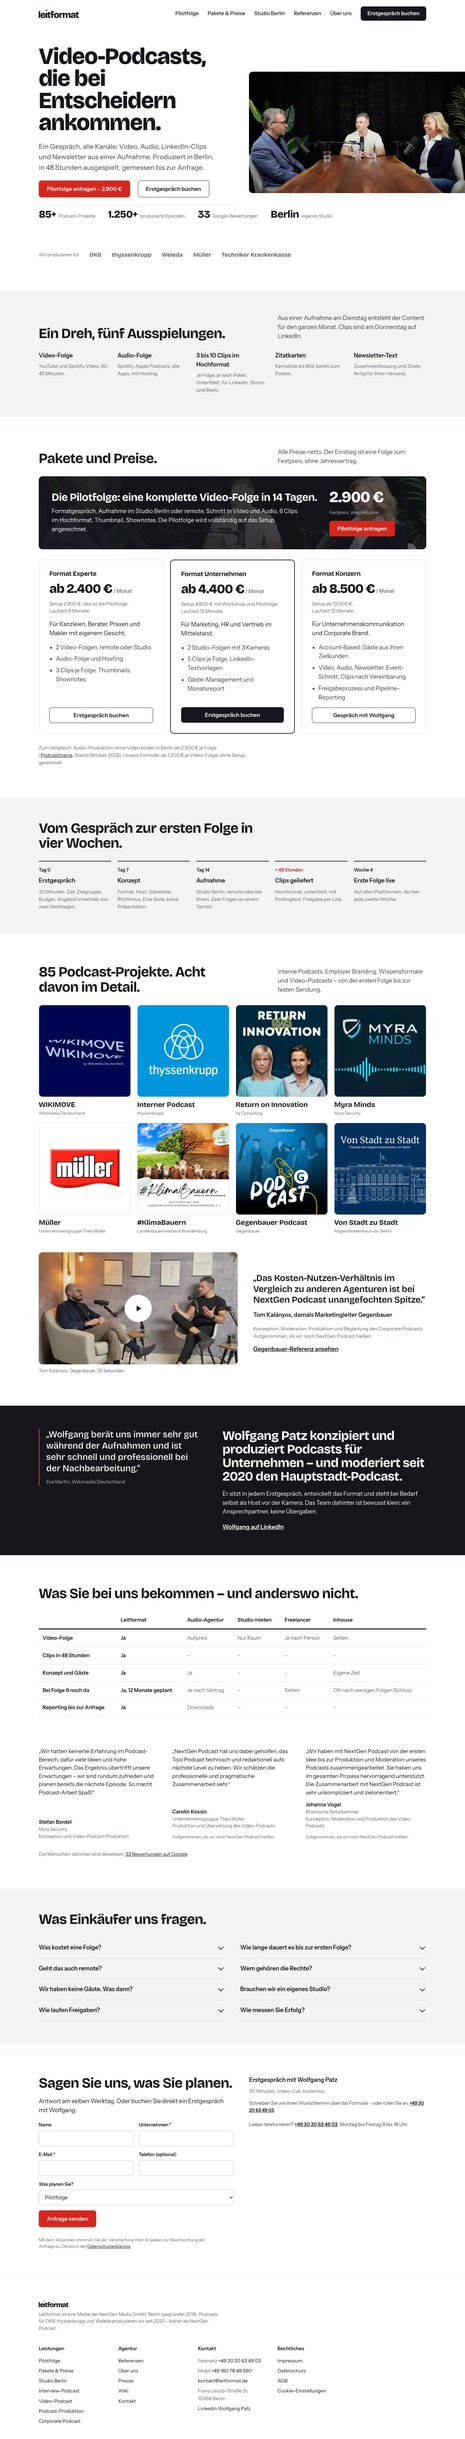
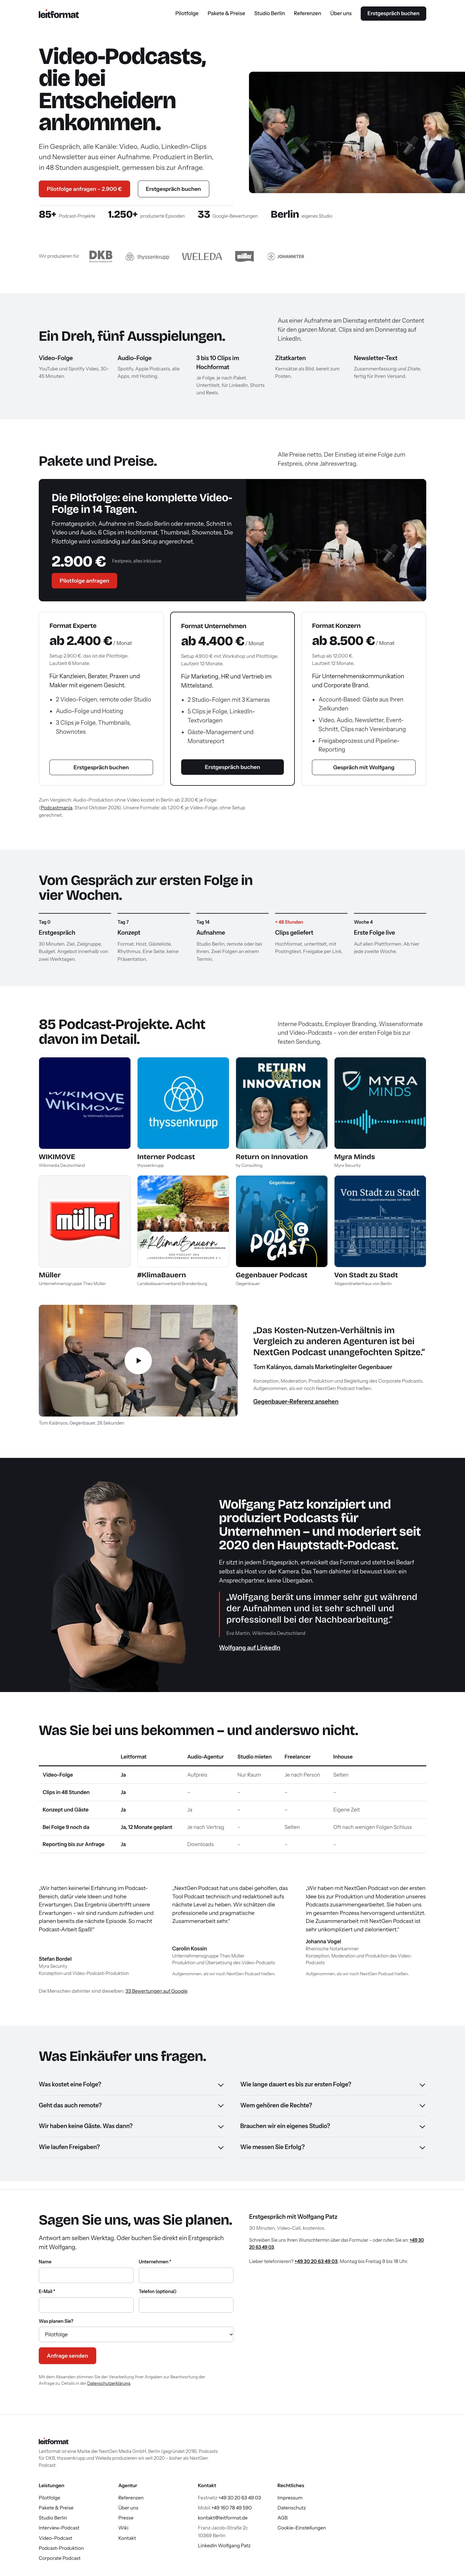
AUFTRAG-05 Medien: Kundenlogos, Team, Wolfgang-Porträt, Cover
Logos freigestellt und einfarbig, Team-Rundporträts, Wolfgang im dunklen
Block, Müller-Cover grau, Hero-Bild mit 800w und Preload, CSS wieder
inline (LCP 1,7 s).

diff --git a/theme/leitformat/assets/css/patterns.css b/theme/leitformat/assets/css/patterns.css
@@ -737,3 +737,23 @@ button.lf-video__play:hover, .lf-video-box--link:hover .lf-video__play { transfo
 /* Häkchen: kein Rot (Rot nur als REC-Signal) */
 .lf-checks li::before { border-color: var(--lf-ink); }
 .lf-pilot .lf-checks li::before, .lf-section--ink .lf-checks li::before { border-color: var(--lf-white); }
+
+/* ---------- AUFTRAG-05 Medien: Logos, Porträt, Team ---------- */
+
+.lf-logos__bilder { display: flex; align-items: center; gap: 40px; margin: 0; padding: 0; list-style: none; }
+.lf-logos__bilder li { flex: none; max-width: none; line-height: 0; }
+.lf-logos__bilder img { display: block; width: auto; opacity: .62; }
+.lf-logos--bild .lf-container { align-items: center; }
+
+.lf-wolfgang--bild { padding-bottom: 0; }
+.lf-wolfgang--bild .lf-container { align-items: end; }
+@media (min-width: 900px) { .lf-wolfgang--bild .lf-container { grid-template-columns: minmax(0, 1fr) minmax(0, 1.3fr); } }
+.lf-wolfgang--bild .lf-wolfgang__text { align-self: center; padding-bottom: var(--wp--preset--spacing--section); }
+.lf-wolfgang__bild { max-width: 420px; margin-inline: auto; }
+.lf-wolfgang__foto { margin: 0; }
+.lf-wolfgang__foto img { display: block; width: 100%; height: auto; background: radial-gradient(closest-side, #3A3F4A 0%, rgba(58, 63, 74, 0) 100%); }
+
+.lf-person__foto { margin: 0 0 8px; max-width: 160px; }
+.lf-person__foto img { display: block; width: 100%; height: auto; aspect-ratio: 1 / 1; object-fit: cover; border-radius: 50%; background: var(--lf-ink); }
+.lf-person { border-top: 0; padding-top: 0; }
+@media (max-width: 899px) { .lf-wolfgang__bild { max-width: 280px; } }

diff --git a/theme/leitformat/inc/content.php b/theme/leitformat/inc/content.php
@@ -331,8 +331,7 @@ function lf_image( string $file, string $alt, string $class = '', bool $eager = 
 	$json = $class ? ',"className":"' . $class . '"' : '';
 	// Studiofotos liegen in zwei Breiten (…-600.webp, …-1200.webp).
 	if ( str_ends_with( $file, '-1200.webp' ) ) {
-		$small  = str_replace( '-1200.webp', '-600.webp', $file );
-		$extra  = ' srcset="' . lf_img( $small ) . ' 600w, ' . lf_img( $file ) . ' 1200w" sizes="(min-width: 1200px) 600px, (min-width: 900px) 50vw, 100vw" width="1200" height="672"';
+		$extra = ' srcset="' . lf_srcset( $file ) . '" sizes="' . LF_SIZES . '" width="1200" height="672"';
 	} else {
 		$extra = '';
 	}
@@ -467,4 +466,57 @@ function lf_pilotkarte( string $titel, string $text, string $hinweis, int $h = 3
 		) . "\n"
 		. lf_group( 'lf-pilot__foto', lf_image( 'studio/studio-totale-1200.webp', 'Aufnahme einer Pilotfolge im Studio Berlin: drei Personen am Tisch, drei Kameras', 'lf-pilot__bild' ) )
 	);
+}
+
+/**
+ * Kundenlogos als Grafik (von der alten Seite, freigestellt, einfarbig; Grau per CSS).
+ * Fehlen bewusst: Techniker Krankenkasse (kein Logo vorhanden – „TK.png“ der alten Seite ist thyssenkrupp),
+ * Wikimedia (vorhandenes Logo ist die Wikimedia Foundation, Kunde ist Wikimedia Deutschland).
+ * Höhe in px je Logo, damit die optische Größe gleich wirkt.
+ */
+function lf_logo_daten(): array {
+	return array(
+		'dkb'                      => array( 'DKB', 36 ),
+		'thyssenkrupp'             => array( 'thyssenkrupp', 26 ),
+		'weleda'                   => array( 'Weleda', 22 ),
+		'mueller'                  => array( 'Müller', 34 ),
+		'johanniter'               => array( 'Johanniter', 26 ),
+		'gegenbauer'               => array( 'Gegenbauer', 18 ),
+		'konrad-adenauer-stiftung' => array( 'Konrad-Adenauer-Stiftung', 28 ),
+		'globus'                   => array( 'Globus', 30 ),
+		'nh-hotels'                => array( 'NH Hotels', 32 ),
+		'hy'                       => array( 'hy – The Axel Springer Consulting Group', 26 ),
+		'myra'                     => array( 'Myra Security', 20 ),
+		'rheinische-notarkammer'   => array( 'Rheinische Notarkammer', 34 ),
+		'abgeordnetenhaus-berlin'  => array( 'Abgeordnetenhaus Berlin', 24 ),
+	);
+}
+
+/** Logostreifen: Startseite fünf Logos, mit $alle sämtliche. */
+function lf_logo_streifen( bool $alle = false ): string {
+	$daten = lf_logo_daten();
+	$wahl  = $alle ? array_keys( $daten ) : array( 'dkb', 'thyssenkrupp', 'weleda', 'mueller', 'johanniter' );
+	$li    = '';
+	foreach ( $wahl as $k ) {
+		[ $name, $h ] = $daten[ $k ];
+		$li .= '<li><img src="' . lf_img( "logos/{$k}.webp" ) . '" alt="' . esc_attr( $name ) . '" height="' . $h . '" loading="lazy" decoding="async"></li>';
+	}
+	return lf_section( 'lf-logos lf-logos--bild',
+		lf_p( 'Wir produzieren für', 'lf-logos__label' ) . "\n"
+		. "<!-- wp:html -->\n<ul class=\"lf-logos__bilder\">" . $li . "</ul>\n<!-- /wp:html -->"
+	);
+}
+
+const LF_SIZES = '(min-width: 1200px) 600px, (min-width: 900px) 50vw, calc(100vw - 40px)';
+
+/** srcset aus den vorhandenen Breiten (…-600/-800/-1200.webp). */
+function lf_srcset( string $file ): string {
+	$teile = array();
+	foreach ( array( 600, 800, 1200 ) as $w ) {
+		$f = str_replace( '-1200.webp', "-{$w}.webp", $file );
+		if ( is_readable( get_theme_file_path( "assets/img/{$f}" ) ) ) {
+			$teile[] = lf_img( $f ) . " {$w}w";
+		}
+	}
+	return implode( ', ', $teile );
 }

diff --git a/theme/leitformat/patterns/ueber-uns.php b/theme/leitformat/patterns/ueber-uns.php
@@ -19,15 +19,15 @@ foreach ( $lf_zeit as $z ) {
 }
 
 $lf_team = array(
-	array( 'Wolfgang Patz', 'Gründer und Geschäftsführer. Strategie, Kundenkommunikation, Formate.' ),
-	array( 'Erik Freutel', 'Mitgründer. Formatentwicklung, Konzepte, Google Ads.' ),
-	array( 'Lenny', 'Aufnahme, Produktion, Qualitätssicherung.' ),
-	array( 'Andreas', 'Schnitt, Sounddesign, Postproduktion.' ),
-	array( 'Clemens', 'Veröffentlichung, Distribution, Plattformen.' ),
+	array( 'Wolfgang Patz', 'Gründer und Geschäftsführer. Strategie, Kundenkommunikation, Formate.', 'wolfgang-patz' ),
+	array( 'Erik Freutel', 'Mitgründer. Formatentwicklung, Konzepte, Google Ads.', 'erik-freutel' ),
+	array( 'Lenny', 'Aufnahme, Produktion, Qualitätssicherung.', 'lenny' ),
+	array( 'Andreas', 'Schnitt, Sounddesign, Postproduktion.', 'andreas' ),
+	array( 'Clemens', 'Veröffentlichung, Distribution, Plattformen.', 'clemens' ),
 );
 $lf_karten = '';
 foreach ( $lf_team as $t ) {
-	$lf_karten .= lf_group( 'lf-person', lf_p( '<strong>' . lf_e( $t[0] ) . '</strong>' ) . "\n" . lf_p( lf_e( $t[1] ), 'lf-muted' ) ) . "\n";
+	$lf_karten .= lf_group( 'lf-person', lf_image( 'team/' . $t[2] . '.webp', 'Porträt ' . $t[0], 'lf-person__foto' ) . "\n" . lf_p( '<strong>' . lf_e( $t[0] ) . '</strong>' ) . "\n" . lf_p( lf_e( $t[1] ), 'lf-muted' ) ) . "\n";
 }
 
 $lf_presse = lf_list( array(
@@ -44,8 +44,9 @@ echo lf_section( 'lf-intro lf-ueber',
 . "\n\n" . lf_section( 'lf-section--white lf-ablauf lf-zeit',
 	lf_h( 2, 'Von einem Blog zur Video-Podcast-Agentur.' ) . "\n" . lf_group( 'lf-steps', $lf_steps )
 )
-. "\n\n" . lf_section( 'lf-section--ink lf-wolfgang',
-	lf_group( 'lf-wolfgang__text',
+. "\n\n" . lf_section( 'lf-section--ink lf-wolfgang lf-wolfgang--bild',
+	lf_group( 'lf-wolfgang__bild', lf_image( 'team/wolfgang-patz-freigestellt.webp', 'Wolfgang Patz, Gründer von Leitformat', 'lf-wolfgang__foto' ) ) . "\n"
+	. lf_group( 'lf-wolfgang__text',
 		lf_p( 'Wolfgang Patz, Gründer und Geschäftsführer', 'lf-rolle' ) . "\n"
 		. lf_h( 2, '„Ein Podcast ist die authentischste Content-Quelle eines Unternehmens.“' ) . "\n"
 		. lf_p( 'Gelernter Fleischer, danach Jahre in leitender Verantwortung. 2017 der Neustart als Praktikant in einer Berliner Werbeagentur, um zu verstehen, wie Konzerne kommunizieren, dann ein Jahr in einer PR-Agentur. 2018 gründete er mit Erik Freutel die NextGen Media GmbH. Seit 2020 moderiert er den Hauptstadt-Podcast – Gespräche mit Politikern, Spitzensportlern, Schauspielern und CEOs.' ) . "\n"

diff --git a/theme/leitformat/patterns/wolfgang.php b/theme/leitformat/patterns/wolfgang.php
@@ -3,18 +3,17 @@
  * Title: Wolfgang Patz
  * Slug: lf/wolfgang
  * Categories: leitformat
- * Description: Zitat links, Text rechts. Porträt kommt mit AUFTRAG-05 (dann links, Zitat darunter).
+ * Description: Porträt links randlos, Text rechts, Wikimedia-Zitat darunter (DESIGN-01).
  */
 
-echo lf_section( 'lf-section--ink lf-wolfgang',
-	lf_group( 'lf-wolfgang__zitat',
-		'<!-- wp:quote {"className":"lf-sidequote"} -->' . "\n" . '<blockquote class="wp-block-quote lf-sidequote">'
-		. lf_p( '„Wolfgang berät uns immer sehr gut während der Aufnahmen und ist sehr schnell und professionell bei der Nachbearbeitung.“' )
-		. '<cite>Eva Martin, Wikimedia Deutschland</cite></blockquote>' . "\n" . '<!-- /wp:quote -->'
-	) . "\n"
+echo lf_section( 'lf-section--ink lf-wolfgang lf-wolfgang--bild',
+	lf_group( 'lf-wolfgang__bild', lf_image( 'team/wolfgang-patz-freigestellt.webp', 'Wolfgang Patz, Gründer von Leitformat, mit verschränkten Armen', 'lf-wolfgang__foto' ) ) . "\n"
 	. lf_group( 'lf-wolfgang__text',
 		lf_h( 2, 'Wolfgang Patz konzipiert und produziert Podcasts für Unternehmen – und moderiert seit 2020 den Hauptstadt-Podcast.' ) . "\n"
 		. lf_p( 'Er sitzt in jedem Erstgespräch, entwickelt das Format und steht bei Bedarf selbst als Host vor der Kamera. Das Team dahinter ist bewusst klein: ein Ansprechpartner, keine Übergaben.' ) . "\n"
+		. '<!-- wp:quote {"className":"lf-sidequote"} -->' . "\n" . '<blockquote class="wp-block-quote lf-sidequote">'
+		. lf_p( '„Wolfgang berät uns immer sehr gut während der Aufnahmen und ist sehr schnell und professionell bei der Nachbearbeitung.“' )
+		. '<cite>Eva Martin, Wikimedia Deutschland</cite></blockquote>' . "\n" . '<!-- /wp:quote -->' . "\n"
 		. lf_p( '<a href="https://www.linkedin.com/in/wolfgang-patz/" rel="noopener">Wolfgang auf LinkedIn</a>', 'lf-link' )
 	),
 	'wolfgang'

diff --git a/theme/leitformat/functions.php b/theme/leitformat/functions.php
@@ -83,7 +83,14 @@ add_action( 'wp_enqueue_scripts', function () {
 
 // Block-CSS nur für Blöcke, die auf der Seite vorkommen.
 add_filter( 'should_load_separate_core_block_assets', '__return_true' );
-add_filter( 'styles_inline_size_limit', fn() => 60000 );
+add_filter( 'styles_inline_size_limit', fn() => 120000 ); // theme.css + patterns.css inline: kein render-blockierender Request
+
+// Hero-Bild (Studio-Totale) auf Seiten, die es über dem Falz zeigen, vorladen.
+add_action( 'wp_head', function () {
+	if ( is_front_page() || is_page( array( 'pilotfolge', 'podcast-studio-berlin', 'podcast-produktion' ) ) ) {
+		printf( '<link rel="preload" as="image" href="%s" imagesrcset="%s" imagesizes="%s" fetchpriority="high">' . "\n", esc_url( get_theme_file_uri( 'assets/img/studio/studio-totale-800.webp' ) ), esc_attr( lf_srcset( 'studio/studio-totale-1200.webp' ) ), esc_attr( LF_SIZES ) );
+	}
+}, 1 );
 
 // Schriften vorladen, die über dem Falz gebraucht werden.
 add_action( 'wp_head', function () {

diff --git a/theme/leitformat/patterns/corporate.php b/theme/leitformat/patterns/corporate.php
@@ -17,7 +17,7 @@ echo lf_section( 'lf-hero',
 	) . "\n"
 	. lf_group( 'lf-hero__media', lf_video( 'Tom Kalányos, damals Marketingleiter Gegenbauer, 26 Sekunden', 'Kundenstimme Gegenbauer abspielen', '1052003179', '', '', '', 0, 'kalanyos-gegenbauer.webp' ) )
 )
-. "\n\n" . lf_section( 'lf-logos', lf_p( 'Wir produzieren für', 'lf-logos__label' ) . "\n" . lf_list( array_map( 'lf_e', lf_logos( true ) ), 'lf-logos__list' ) )
+. "\n\n" . lf_logo_streifen( true )
 . "\n\n" . lf_section( 'lf-section--white lf-versprechen',
 	lf_h( 2, 'Drei Zusagen für zwölf Monate.' ) . "\n"
 	. lf_karten( array(

diff --git a/theme/leitformat/patterns/logoleiste.php b/theme/leitformat/patterns/logoleiste.php
@@ -3,10 +3,7 @@
  * Title: Logoleiste
  * Slug: lf/logoleiste
  * Categories: leitformat
- * Description: Wortmarken in Grau, bis die Logo-SVGs da sind (AUFTRAG-05).
+ * Description: Fünf Kundenlogos als Grafik, eine Zeile, mobil horizontal scrollbar.
  */
 
-$lf_items = array_map( 'lf_e', lf_logos() );
-echo lf_section( 'lf-logos',
-	lf_p( 'Wir produzieren für', 'lf-logos__label' ) . "\n" . lf_list( $lf_items, 'lf-logos__list' )
-);
+echo lf_logo_streifen();

diff --git a/auftraege/STATUS.md b/auftraege/STATUS.md
@@ -12,3 +12,4 @@
 | 18.10.2026 | Antworten RUECKFRAGEN (AUFTRAG-03, Prüfung Claude) | Rechte-FAQ (ausschließliche Nutzungsrechte) auf Start, Pilot, Corporate; AGB § 6 ausschließliches Nutzungsrecht ab Zahlung, Archivierung erlaubt, Referenz nur mit Zustimmung; § 11 Anrechnung 6 Monate; Vermerk Anwaltsprüfung nur im Quelltext. Datenschutz: 12 Monate, Vimeo/Calendly-Adressen und DPF aus deren aktuellen Erklärungen, GA4 über GTM, Calendly erst nach Klick. Über uns: H1 „Fünf Leute“, Sophia raus, Presse nur belegt + Kudamm-Talk, kein Hauptstadt-Platzhalter, Hauptstadt-Podcast überall mit Wolfgangs Namen. Corporate-Hero: Gegenbauer-Testimonial; „Wer wir sind“ nirgends. Porsche-Story als Standbild mit Link (Player 403). /danke/ ohne YouTube-Teaser. Vergleichssatz „ab 1.200 € je Video-Folge, ohne Setup“. Referenzen + Primagas, Goldbeck Solar, Anna Ewald (Case-Text) = 41 Projekte; leere Ergebnis-Absätze ausgeblendet; VideoObject nur mit echtem Datum. Scan 33 URLs: einziger sichtbarer Platzhalter Calendly (AUFTRAG-04). | Erik: AV-Vertrag All-Inkl, Google DPA, Postfach + SPF/DKIM, AGB zum Anwalt. „Das Recht ist übertragbar und unterlizenzierbar“ in § 6 (1) ist meine Ergänzung – beim Anwalt mitprüfen. |
 | 18.10.2026 | AUFTRAG-04 (Theme fertig, Konten offen) | inc/form.php: Endpoint /anfrage-senden/, Nonce, Honeypot, signierter Zeitstempel, Rate-Limit, Feldfehler mit Rücksprung und Wiederbefüllung, Mail per SMTP (phpmailer_init, Konstanten), Webhook ins Lead-Sheet (server/lead-sheet.gs), Redirect /danke/?src=form&v=…&t=… mit Einmal-Token; dataLayer lf_danke (lf_once, gehashte E-Mail für erweiterte Conversions). inc/consent.php: Consent Mode v2 Standard vor GTM, eigener Banner (zwei gleichwertige Buttons, 6 Monate, Footer-Link „Cookie-Einstellungen“), Calendly als iframe per Klick oder nach Einwilligung, UTM-Parameter, Vorbefüllung auf /danke/, lf_termin per postMessage (einmal). attribution.js (lf_attr nur mit Einwilligung), lf_video_play. Formularfeld Nachricht auf /kontakt/, Option Studio buchen. Datenschutz ergänzt (lf_consent, lf_attr, Hash, Spam-Schutz, Calendly). Tests lokal + live ohne Mail bestanden; Lighthouse 100/100/100. Einrichtungsanleitung: auftraege/abnahmen/AUFTRAG-04-einrichtung.md, Werte per server/config-04.sh. | Gate 1 offen: Erik richtet Postfächer/SPF/DKIM, Lead-Sheet, Calendly, Ads-Conversions, GTM ein und trägt Werte in .env.local ein; danach Testprotokoll mit echten Testanfragen (Freigabe nötig). |
 | 18.10.2026 | DESIGN-01 P1 | Tokens: Seite Weiß, Flächen #F2F3F5, Linien #D9DCE1 (theme.json, theme.css, CLAUDE.md). Rot nur als REC-Signal (Primärbutton, aktiver Filter, laufendes Video, „+ 48 Stunden“). Alle Versal-Eyebrows entfernt (Paket-, Audit-, Fakten-Titel jetzt H3 in normaler Schreibung, Footer-Titel ohne Versalien); Metazeilen ohne Mittelpunkte (Paket-Setup zweizeilig als Satz, Captions als Satz, Stimmen-Rollen zeilenweise, Referenzkacheln Titel + Kunde). Karten nur noch für Pakete (12 px, 1 px Linie, Unternehmen 2 px schwarz); Stimmen, Kartenraster, Termin, Audit, Bewertung ohne Kasten. Platzhalterflächen weg: Hero (Start, Pilotfolge, Studio) mit Studio-Totale, auf Desktop randlos rechts; Ausspielungen nur Text; Wolfgang-Block ohne Porträtfläche (Zitat links, Text rechts); Team ohne Initial-Kacheln; Regie-Kachel raus (Galerie 3 Bilder); Referenz-Raster Startseite mit echten Covern, Titel und Kunde darunter; leere Cover ohne Fläche. Pilotfolge-Karte mit abgedunkeltem Studio-Foto. Gegenbauer-Video mit echtem Standbild (lokal, kein Vimeo-Request vor Klick). Hero-H1 bis 72 px, Zeilenabstand 0,95; Kennzahlen eine Zeile (Desktop) bzw. 2 × 2 gleich groß. Mobil-Fehler: Caption unter dem Video, Logostreifen fünf Namen in einer scrollbaren Zeile, Sticky-CTA zusätzlich per matchMedia < 768 px, Abschnittsabstand nach grauen/dunklen Blöcken. Keine Hover-Hebeeffekte, prefers-reduced-motion. Lighthouse mobil 97–100 / 100 / 100 auf 6 Seiten, 375 px ohne horizontales Scrollen auf 15 Seiten. Screenshots: auftraege/screenshots/ (Startseite, Studio, 375 und 1440 px). | Erik entscheidet am Bild. P2 mit AUFTRAG-05 (Logos als Grafik, Bilder in Ausspielungen, Porträt, Hero-Video), P3 nach dem Test. CSS-Schicht „DESIGN-01 P1“ am Ende von patterns.css in P3 mit den alten Regeln zusammenführen. |
+| 18.10.2026 | Pilotfolge-Karte + AUFTRAG-05 (nur Medien) | Pilotfolge-Karte: Text und Preis links, Studio-Foto rechts (mobil darunter), Häkchen ohne Rot. Medien von der alten Seite: 13 Kundenlogos freigestellt und einfarbig (Grau per CSS, Höhe je Logo abgestimmt) – Startseite fünf (DKB, thyssenkrupp, Weleda, Müller, Johanniter), Corporate alle; Wolfgang freigestellt im dunklen Block (Startseite, Über uns, Porträt links, Zitat unter dem Text); Team mit fünf Rundporträts; Gegenbauer-Standbild; Müller-Cover graue Variante. Hero-Bild in 600/800/1200 mit Preload; theme.css + patterns.css wieder inline (patterns.css war über das Inline-Limit gewachsen und blockierte das Rendern). Lighthouse mobil 100/100/100 auf Start, Pilotfolge, Studio (LCP 1,7 s), Über uns 99, Corporate 100; 375 px ohne horizontales Scrollen. Screenshots aktualisiert. | Kein Go-Live, kein Tracking (wie beauftragt). Offen: TK- und Wikimedia-Deutschland-Logo, Bestätigung Team-Zuordnung, Hero-Video (WOLFGANG-01), Regie-Foto, Bilder in „Ein Dreh, fünf Ausspielungen“. |

diff --git a/auftraege/RUECKFRAGEN.md b/auftraege/RUECKFRAGEN.md
@@ -51,3 +51,8 @@ Antworten vom 18.10.2026, alle drei Preisentscheidungen von Erik am 18.10. freig
 | 18.10.2026 | AUFTRAG-04 · Spam-Schutz und verlorene Anfragen | Honeypot, signierter Zeitstempel (mindestens 3 s), Nonce, höchstens 5 Anfragen je IP in 10 Minuten. Erkannte Bots landen auf /danke/ ohne Conversion und ohne Mail. Schlagen Mail und Webhook beide fehl, zählt die Anfrage nicht und der Nutzer sieht einen Hinweis mit Telefonnummer; schlägt nur eins fehl, steht es im PHP-Fehlerlog des Servers. | So lassen. | |
 | 18.10.2026 | AUFTRAG-04 · Datenschutz-Checkbox | Keine Pflicht-Checkbox (B2B, Hinweis unter dem Button, wie im Auftrag). Erik entscheidet final. | Bestätigen. | |
 | 18.10.2026 | AUFTRAG-04 · Erfolgsfall nur lokal getestet | Validierung, Honeypot, Rate-Limit, Rücksprung mit Feldfehlern und Einmal-Conversion sind lokal (WordPress Playground) und – soweit ohne Mail – live getestet. Den echten Versand (Mail, Sheet-Zeile, Google Ads) teste ich erst, wenn SMTP, Webhook und GTM eingerichtet sind; jedes Test-Absenden auf leitformat.de verschickt eine echte Mail an kontakt@leitformat.de. | Nach Einrichtung: Freigabe für die Testanfragen aus dem Protokoll. | |
+| 18.10.2026 | AUFTRAG-05 · Logo „Techniker Krankenkasse“ | Die alte Seite beschriftet „TK.png“ als Techniker Krankenkasse – die Datei ist aber das weiße thyssenkrupp-Logo. Ein TK-Logo gibt es auf der alten Seite nicht. Im Logostreifen (DESIGN-01: DKB, thyssenkrupp, Weleda, Müller, TK) steht deshalb Johanniter statt TK. Ist TK überhaupt ein freigegebener Kunde? | TK-Logo von Erik/Wolfgang (SVG) und Freigabe bestätigen, dann tausche ich zurück. | |
+| 18.10.2026 | AUFTRAG-05 · Logo Wikimedia | Das Wikimedia-Logo der alten Seite ist das der Wikimedia Foundation; Kunde ist Wikimedia Deutschland (WIKIMOVE). Nicht eingesetzt. | Logo von Wikimedia Deutschland besorgen oder weglassen. | |
+| 18.10.2026 | AUFTRAG-05 · Team-Fotos zugeordnet | Dateinamen der alten Seite sind teils nichtssagend. Zuordnung nach Reihenfolge auf der alten /ueber-uns/: EF-Team = Erik, Team-Lenny = Lenny, „Lorem-ipsum…jpg“ = Andreas (Mann mit Kappe), CG-Team = Clemens, SR = Sophia (nicht verwendet). Für Wolfgang: Rundporträt im Team, freigestelltes Foto im dunklen Block (Startseite, Über uns). | Erik bestätigt die Zuordnung (Screenshot auftraege/screenshots/ueber-uns-1440.jpg). | |
+| 18.10.2026 | AUFTRAG-05 · Medien im Theme statt Mediathek | AUFTRAG-05 sieht wp media import vor. Logos, Team- und Studiofotos liegen stattdessen optimiert im Theme (assets/img/logos, /team, /studio): die Seiten bestehen aus Theme-Patterns, die Bilder sind damit versioniert, bekommen feste Größen/srcset und hängen nicht an Mediathek-IDs. Referenz-Cover liegen weiter in der Mediathek (Beitragsbilder). Dateinamen ohne alten Markennamen. | So lassen. | |
+| 18.10.2026 | AUFTRAG-05 · Cover thyssenkrupp und Müller | Für die beiden internen Formate gibt es kein Podcast-Cover, nur Logo-Kacheln (Müller jetzt in der grauen Variante der alten Startseite). Echte Cover oder Standbilder wären stärker. | Falls vorhanden: Standbild/Cover aus den Kundenprojekten (Freigabe Kunde). | |
